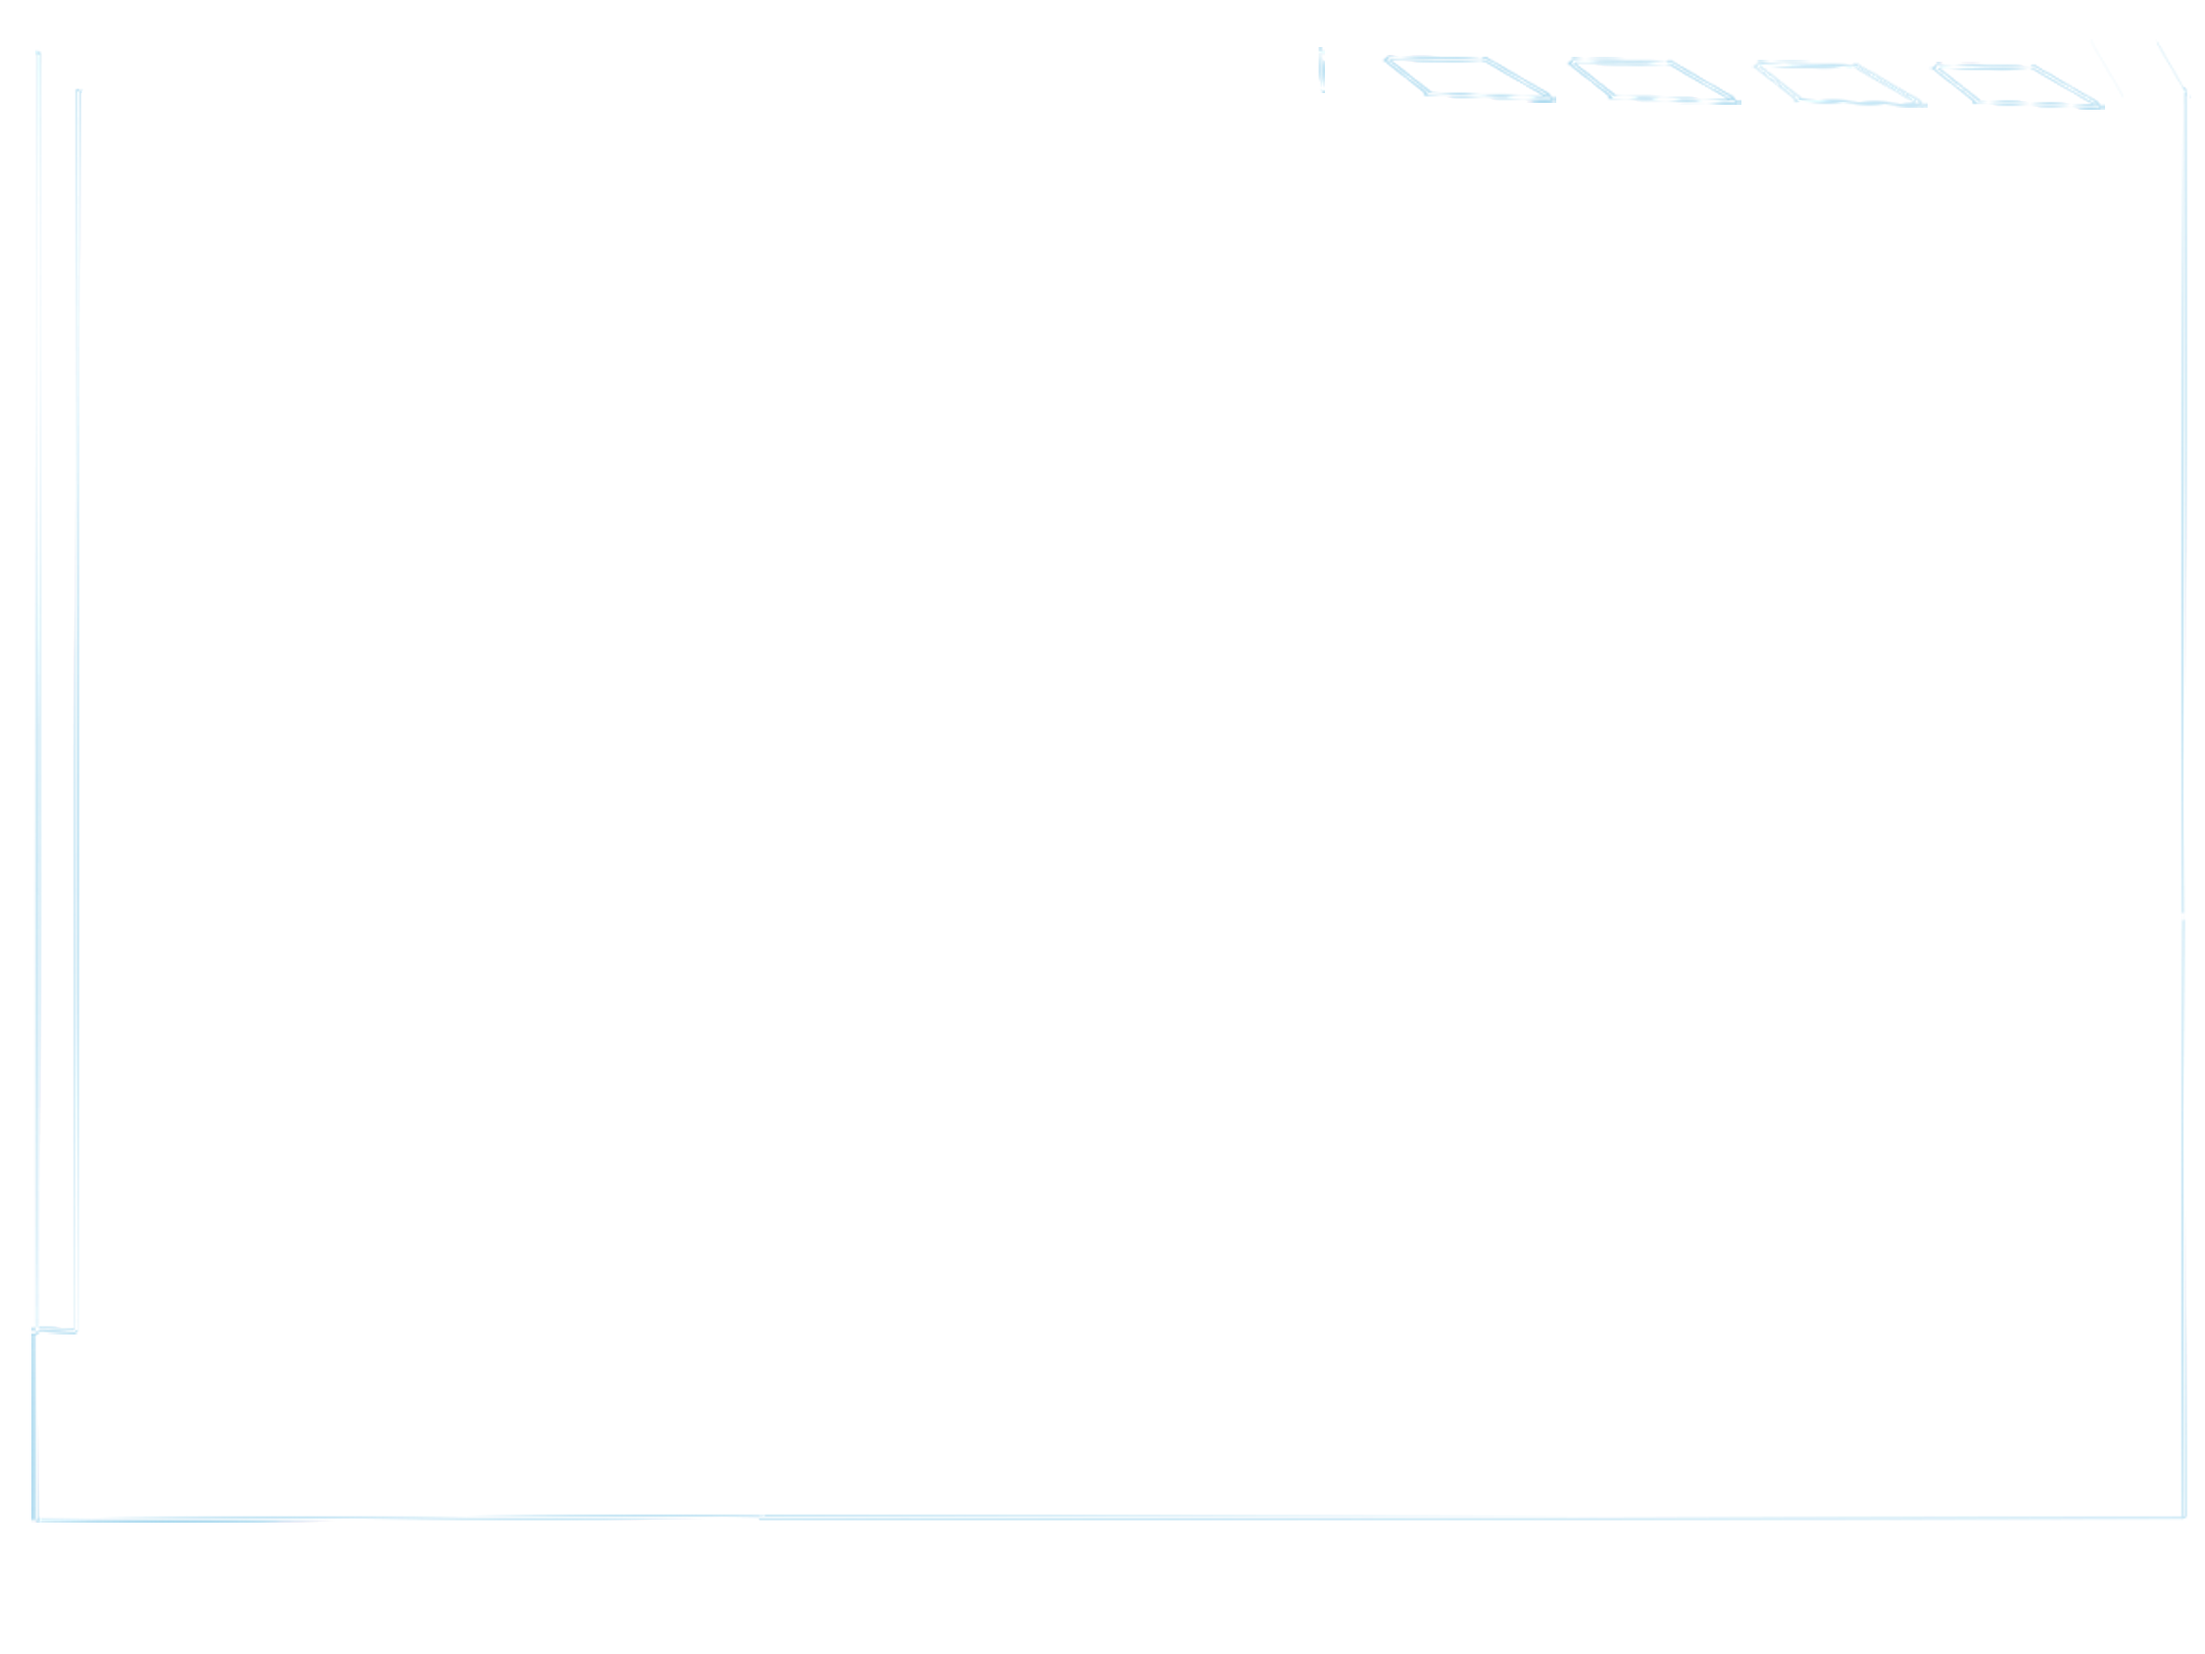
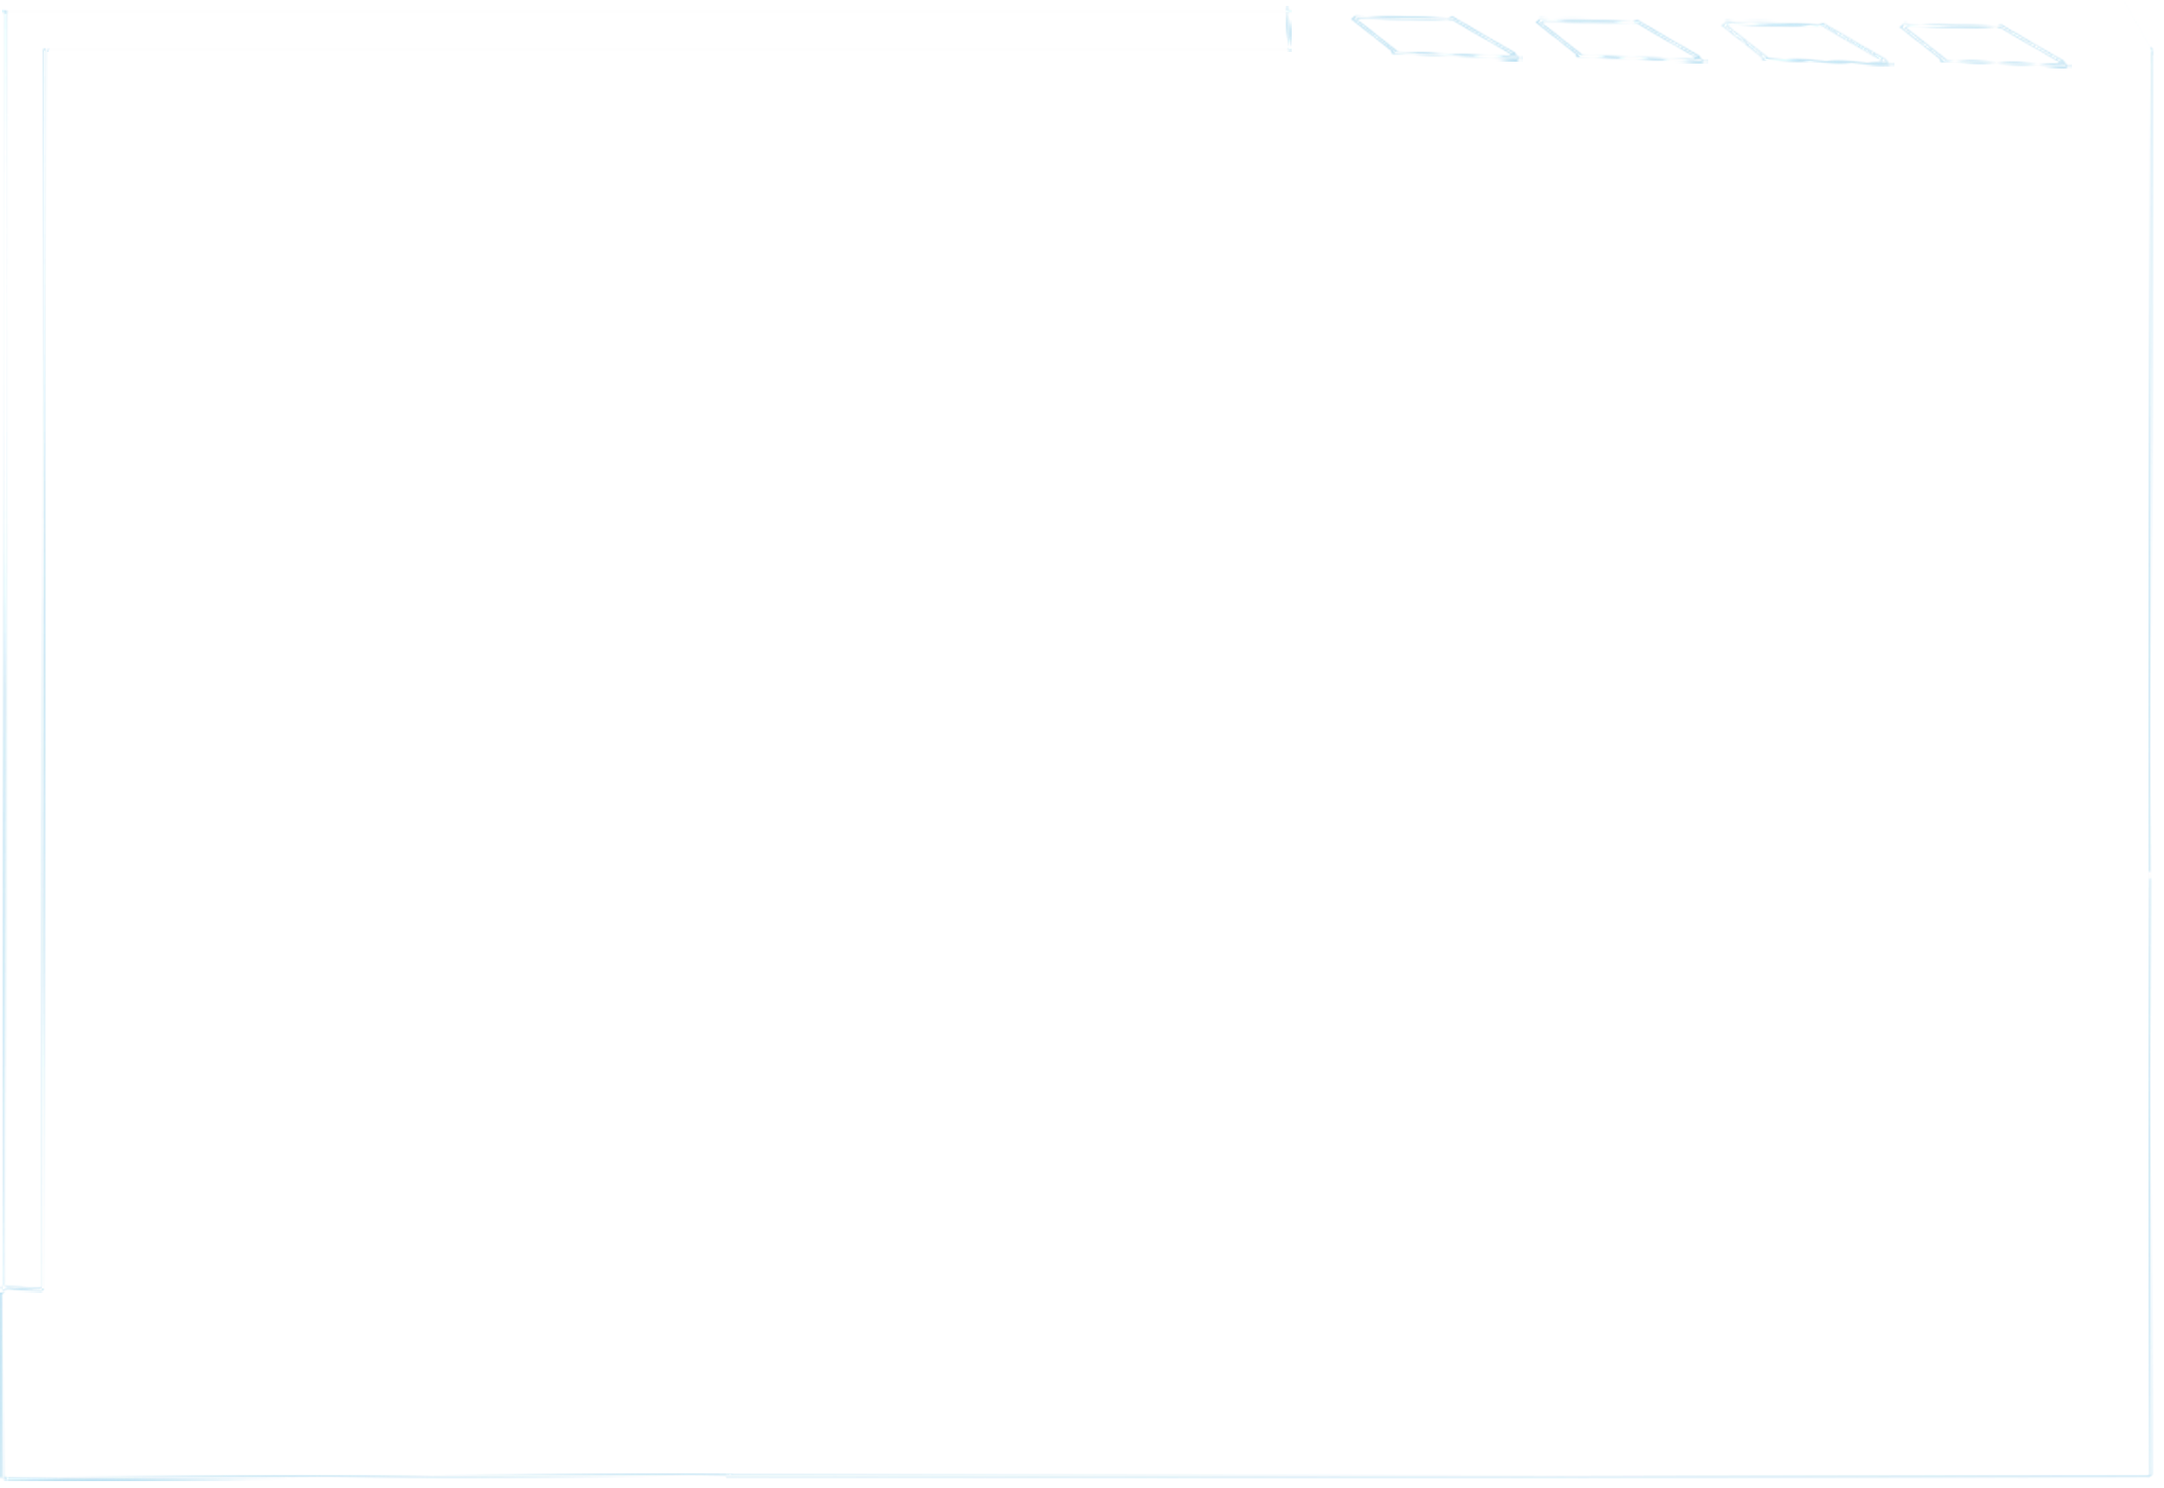
Updates titles

diff --git a/frontend/src/components/ProductPitch.tsx b/frontend/src/components/ProductPitch.tsx
@@ -11,20 +11,16 @@ class ProductPitch extends Component<ProductPitchProps> {
     return (
       <div className="flex items-center justify-center min-h-screen">
         <section
-          className={`p-8 w-[800px] rounded-lg shadow-md ${
-            darkMode ? 'px-30' : '-mt-30'
-          } ${
-            darkMode ? 'h-[610px]' : 'h-[400px]'
-          } ${darkMode ? '' : 'bg-[#d3f3f8]'}`}
+          className={`p-8 w-[700px] rounded-lg px-30 h-[480px] ${darkMode ? "": 'bg-[#d3f3f8]'}`}
           style={{
-            backgroundImage: darkMode ? "url('./boarder.png')" : 'none',
-            backgroundSize: '90%', // Scales the background image
-            backgroundPosition: 'top',
+            backgroundImage: darkMode ? "url('./boarder.png')" :"url('./boarderLight.png')",
+            backgroundSize: '100%', // Scales the background image
+            backgroundPosition: 'top  ',
             backgroundRepeat: 'no-repeat',
           }}
         >
           <div className={`max-w-4xl mx-auto ${
-            darkMode ? 'pt-10' : ''
+            darkMode ? '' : ''
           }`}>
             <h2 
               className="text-xl font-bold" 
@@ -34,7 +30,7 @@ class ProductPitch extends Component<ProductPitchProps> {
             </h2>
             <p 
               className={`text-lg leading-relaxed ${
-                darkMode ? 'text-white' : 'text-black'
+                darkMode ? 'text-white' : 'text-[#2b9bda]'
               }`} 
               style={{ fontFamily: 'sans-serif' }}
             >

diff --git a/frontend/src/App.tsx b/frontend/src/App.tsx
@@ -142,9 +142,8 @@ class App extends Component<{}, AppState> {
                   <section className="my-12">
                     <div className="flex justify-center items-center mb-1">
                       <img 
-                        src="./employment.png" 
-                        alt="Employment" 
-                        style={{ width: '300px', height: '250px' }}
+                        src={this.state.darkMode ?   "./employmentD.png" :"./employment.png"} alt="Employment" style={{ height: '250px' }}
+                      
                       />
                     </div>
                     <div className="max-w-4xl mx-auto">
